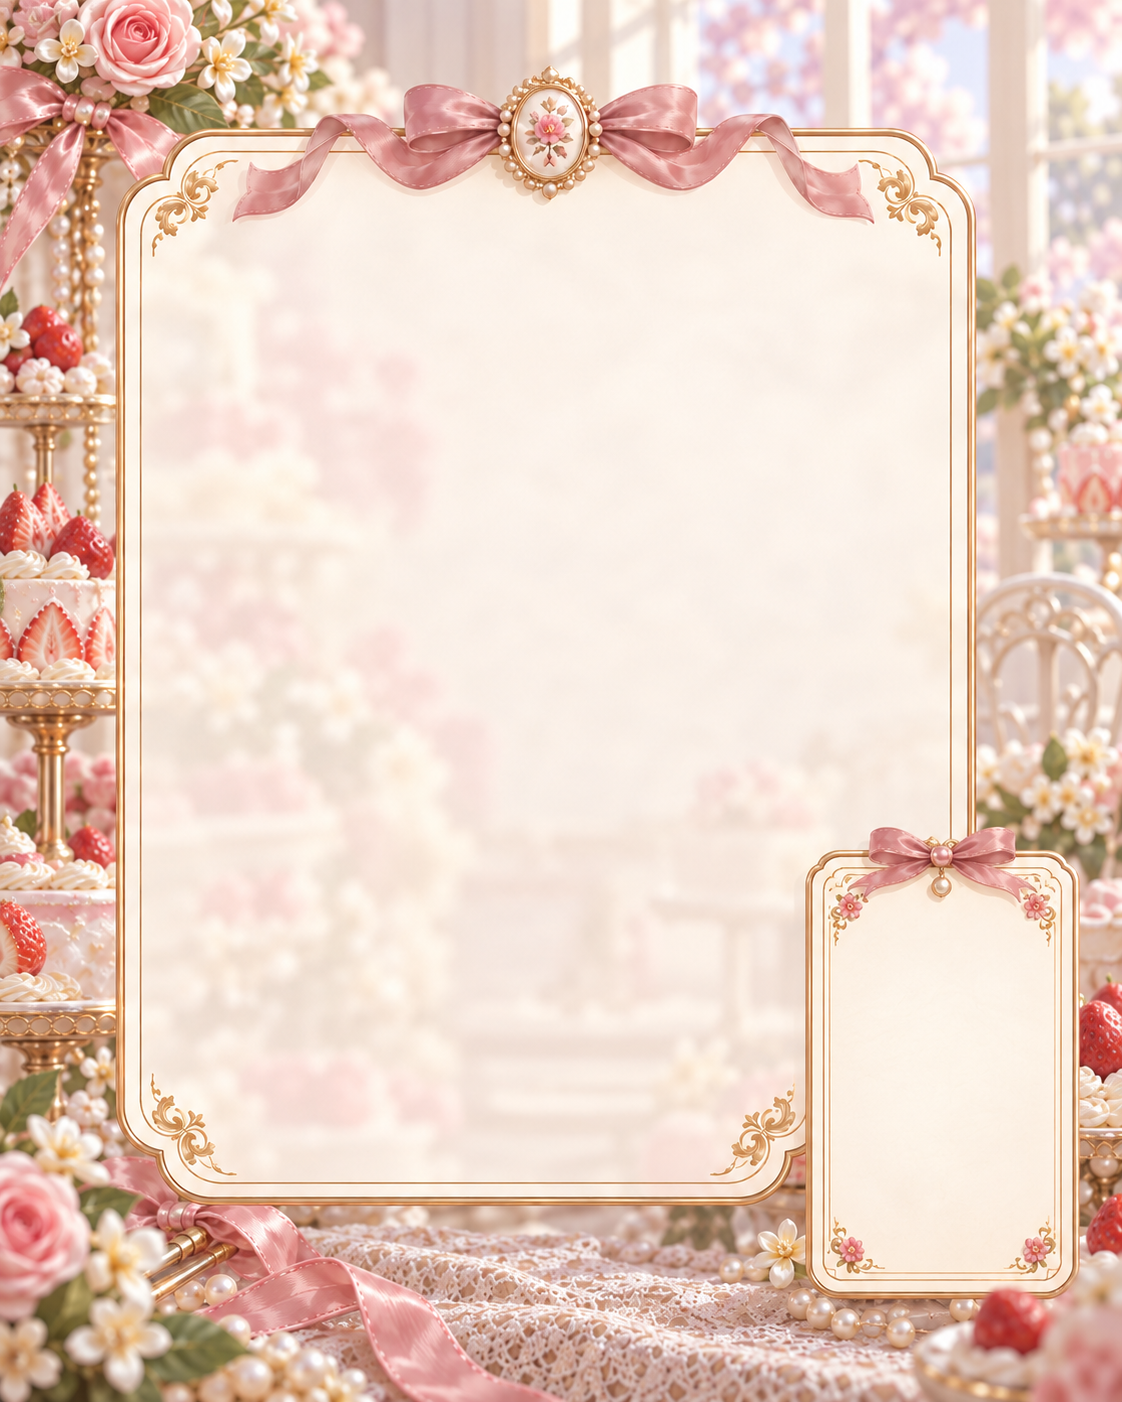
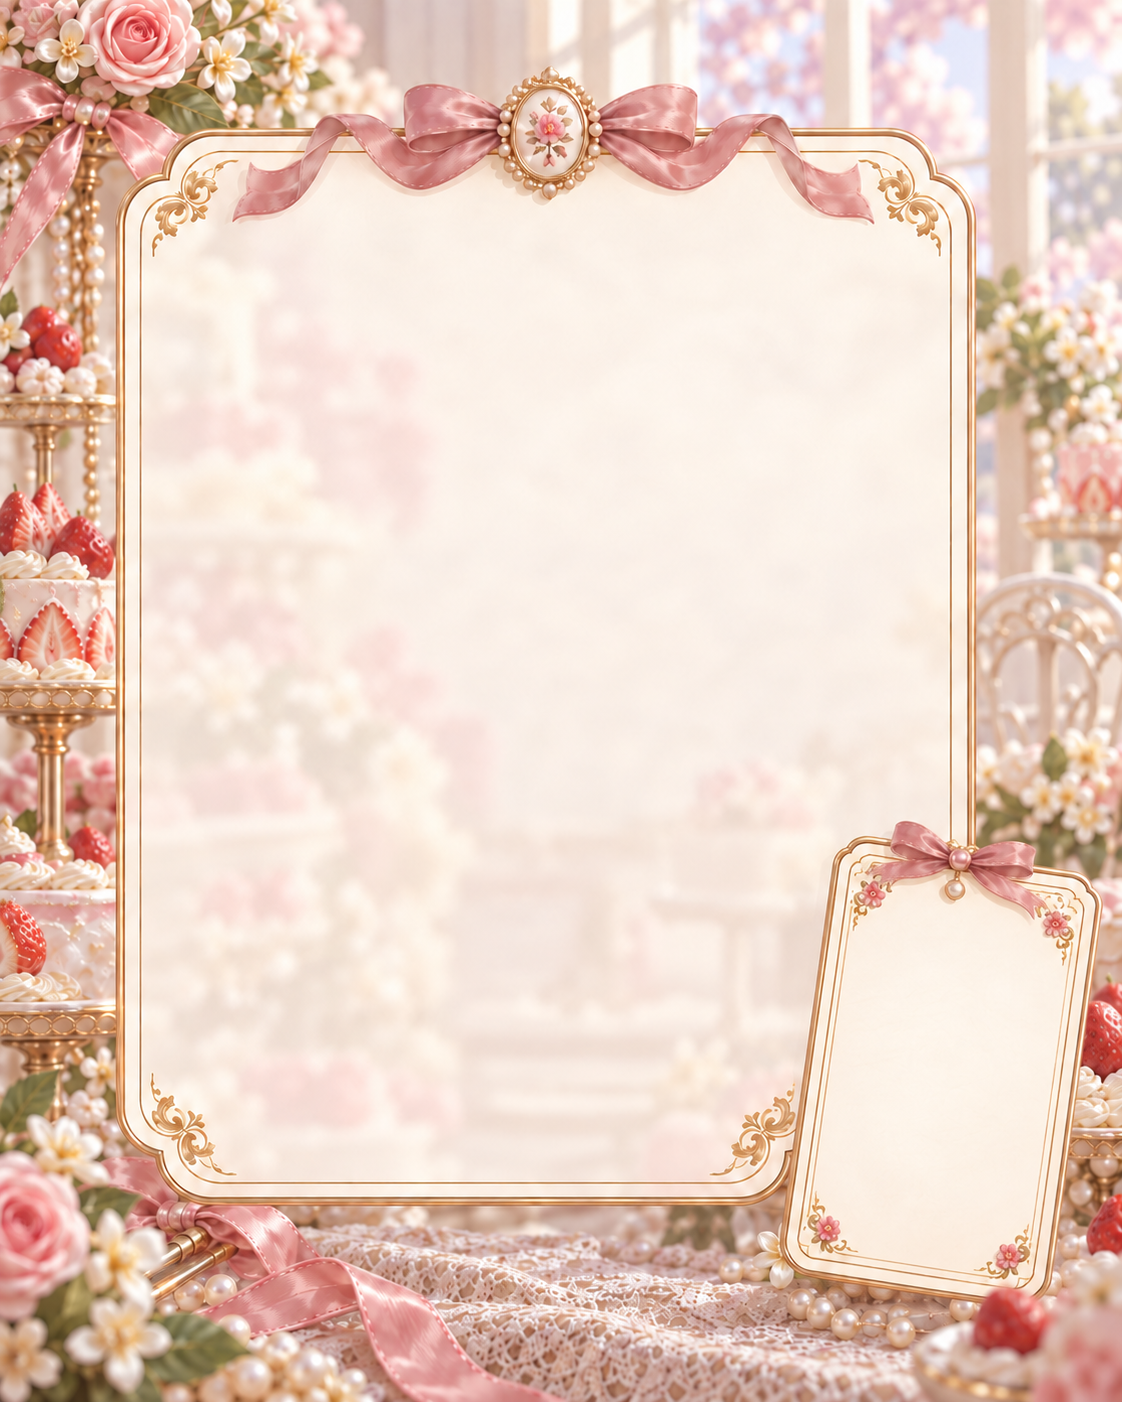
fix: keep home layout inside responsive plaque

diff --git a/src/styles/ui.css b/src/styles/ui.css
@@ -2825,3 +2825,146 @@
     display: none;
   }
 }
+
+/* Final safety pass: keep the rotated plaque's live rows inside its inner opening. */
+.sg-screen.sg-home-screen .sg-home-artboard .sg-button-mark {
+  display: none !important;
+}
+
+.sg-screen.sg-home-screen .sg-home-artboard .sg-treats-card {
+  padding: 13% 3% 11%;
+}
+
+.sg-screen.sg-home-screen .sg-home-artboard .sg-menu-heading,
+.sg-screen.sg-home-screen .sg-home-artboard .sg-menu-rule {
+  flex: 0 0 auto;
+}
+
+.sg-screen.sg-home-screen .sg-home-artboard .sg-treats-list {
+  flex: 1 1 auto;
+  min-height: 0;
+  min-width: 0;
+  width: 100%;
+  margin: 0;
+  padding: 0;
+  grid-template-rows: repeat(6, minmax(0, 1fr));
+  align-content: stretch;
+  gap: clamp(1px, .25cqw, 4px);
+}
+
+.sg-screen.sg-home-screen .sg-home-artboard .sg-menu-item {
+  min-width: 0;
+  min-height: 0;
+  align-items: center;
+}
+
+.sg-screen.sg-home-screen .sg-home-artboard .sg-menu-item-name {
+  min-width: 0;
+  overflow: visible;
+  text-overflow: clip;
+  white-space: nowrap;
+  font-size: clamp(.64rem, 1.15cqw, .9rem);
+  font-weight: 600;
+  line-height: 1;
+}
+
+/* The canvas is pale by design, so give live Play copy a stable dark ink edge. */
+.game-stage .sg-hud {
+  color: #5f3d3d;
+  text-shadow: 0 1px 0 rgba(255, 255, 255, .98), 0 0 4px rgba(255, 255, 255, .86);
+  -webkit-font-smoothing: antialiased;
+  text-rendering: geometricPrecision;
+}
+
+.game-stage .sg-hud-label {
+  color: #704847;
+  font-size: clamp(.64rem, 1.15vw, .82rem);
+  font-weight: 600;
+}
+
+.game-stage .sg-hud-score,
+.game-stage .sg-hud-timer strong {
+  color: #633f3f;
+  font-size: clamp(1.65rem, 3.2vw, 2.85rem);
+  font-weight: 600;
+  text-shadow: 0 1px 0 rgba(255, 255, 255, .98), 0 0 5px rgba(255, 255, 255, .9);
+}
+
+@media (max-width: 700px) {
+  .game-stage .sg-hud-label {
+    font-size: clamp(.64rem, 2.2vw, .78rem);
+  }
+
+  .game-stage .sg-hud-score,
+  .game-stage .sg-hud-timer strong {
+    font-size: clamp(1.5rem, 6.5vw, 2rem);
+  }
+}
+
+/* Home uses contain, not cover: preserve the generated plate's proportions and
+   use calm cream letterboxing when the viewport ratio is unusually narrow. */
+.sg-screen.sg-home-screen {
+  background: #f4e5df;
+}
+
+.sg-screen.sg-home-screen .sg-home-artboard {
+  width: min(100vw, calc(100dvh * 1442 / 1091));
+  height: min(100dvh, calc(100vw * 1091 / 1442));
+  max-width: 100vw;
+  max-height: 100dvh;
+}
+
+@media (orientation: portrait) {
+  .sg-screen.sg-home-screen .sg-home-artboard {
+    width: min(100vw, calc(100dvh * 1122 / 1402));
+    height: min(100dvh, calc(100vw * 1402 / 1122));
+  }
+}
+
+/* Final menu safe area: padding is expressed in artboard units, not the
+   viewport, so the plaque keeps the same internal rhythm at every size. */
+.sg-screen.sg-home-screen .sg-home-artboard .sg-treats-card {
+  padding: 13cqw 2.5cqw 4cqw;
+}
+
+.sg-screen.sg-home-screen .sg-home-artboard .sg-menu-heading {
+  line-height: 1.05;
+}
+
+.sg-screen.sg-home-screen .sg-home-artboard .sg-menu-heading strong {
+  line-height: 1.1;
+}
+
+.sg-screen.sg-home-screen .sg-home-artboard .sg-menu-heading span {
+  line-height: 1;
+}
+
+.sg-screen.sg-home-screen .sg-home-artboard .sg-menu-rule {
+  margin: 2cqw 0;
+  line-height: 1;
+}
+
+/* The generated plaque has a deeper lower floral ornament; lift the live
+   content group so the final row stays inside the paper opening. */
+.sg-screen.sg-home-screen .sg-home-artboard .sg-menu-heading,
+.sg-screen.sg-home-screen .sg-home-artboard .sg-menu-rule,
+.sg-screen.sg-home-screen .sg-home-artboard .sg-treats-list {
+  position: relative;
+  top: -3cqw;
+}
+
+.sg-screen.sg-home-screen .sg-home-artboard .sg-menu-item {
+  grid-template-columns: clamp(12px, 2.4cqw, 28px) minmax(0, 1fr);
+  gap: clamp(2px, .3cqw, 6px);
+}
+
+.sg-screen.sg-home-screen .sg-home-artboard .sg-menu-item img {
+  width: clamp(12px, 2.2cqw, 26px);
+  height: clamp(12px, 2.2cqw, 26px);
+}
+
+.sg-screen.sg-home-screen .sg-home-artboard .sg-menu-item-name {
+  font-size: clamp(.36rem, 1.05cqw, .82rem);
+  letter-spacing: -.06em;
+  line-height: 1;
+}

diff --git a/src/game/GameScene.ts b/src/game/GameScene.ts
@@ -13,6 +13,7 @@ import { addScore, applyPlatePenalty } from './systems/scoreRules'
 import type { LevelConfig } from './types'
 const CHINESE_UI_FONT = 'STKaiti, Kaiti SC, KaiTi, Songti SC, serif'
 const DISPLAY_SCORE_FONT = 'Bodoni Moda Variable, Bodoni Moda, Georgia, Times New Roman, serif'
+const TEXT_RESOLUTION = Math.min(window.devicePixelRatio || 1, 2)
 
 type FlyingObject = Cake | Hazard
 
@@ -96,10 +97,13 @@ export class GameScene extends Phaser.Scene {
 
     this.add.text(this.scale.width / 2, this.scale.height - 42, '按住，轻轻划过糕点～', {
       fontFamily: CHINESE_UI_FONT,
-      fontSize: '14px',
-      color: '#8f6973',
-      backgroundColor: '#fffdf7e8',
-      padding: { x: 12, y: 7 },
+      fontSize: '16px',
+      color: '#70464a',
+      stroke: '#fffdf7',
+      strokeThickness: 3,
+      resolution: TEXT_RESOLUTION,
+      backgroundColor: '#fffdf7f2',
+      padding: { x: 14, y: 8 },
     }).setOrigin(0.5).setDepth(90).setName('gesture-hint')
 
     this.time.delayedCall(3200, () => {
@@ -287,9 +291,10 @@ export class GameScene extends Phaser.Scene {
     const text = this.add.text(x, y, label, {
       fontFamily: DISPLAY_SCORE_FONT,
       fontSize: '22px',
-      color: '#7d5a63',
+      color: '#654447',
       stroke: '#fffdf7',
-      strokeThickness: 5,
+      strokeThickness: 6,
+      resolution: TEXT_RESOLUTION,
     }).setOrigin(0.5).setDepth(80)
     this.tweens.add({
       targets: text,
@@ -308,7 +313,8 @@ export class GameScene extends Phaser.Scene {
       fontSize: `${Math.max(18, Math.min(28, this.scale.width * 0.04))}px`,
       color,
       stroke: '#fffdf7',
-      strokeThickness: 6,
+      strokeThickness: 7,
+      resolution: TEXT_RESOLUTION,
       align: 'center',
     }).setOrigin(0.5).setDepth(85).setAngle(-4)
     this.tweens.add({ targets: text, y: y - 80, alpha: 0, duration: 760, ease: 'Back.Out', onComplete: () => text.destroy() })
@@ -320,7 +326,8 @@ export class GameScene extends Phaser.Scene {
       fontSize: `${Math.min(48, 25 + count * 4)}px`,
       color: '#a85661',
       stroke: '#fffdf7',
-      strokeThickness: 8,
+      strokeThickness: 9,
+      resolution: TEXT_RESOLUTION,
       align: 'center',
       lineSpacing: 7,
     }).setOrigin(0.5).setDepth(86).setScale(0.55).setAngle(Phaser.Math.Between(-3, 3))

diff --git a/src/components/HomeScreen.tsx b/src/components/HomeScreen.tsx
@@ -42,7 +42,6 @@ const HomeScreen: FC<HomeScreenProps> = ({ bestScore, onStart }) => (
 
         <button className="sg-button sg-button-primary" type="button" onClick={onStart}>
           开糕
-          <span className="sg-button-mark" aria-hidden="true">✦</span>
         </button>
         <p className="sg-key-hint"><kbd>ENTER</kbd> 或轻触开始</p>
       </section>

diff --git a/src/styles/global.css b/src/styles/global.css
@@ -16,7 +16,7 @@ html,
 body,
 #root {
   width: 100%;
-  min-width: 320px;
+  min-width: 0;
   min-height: 100%;
   margin: 0;
 }
